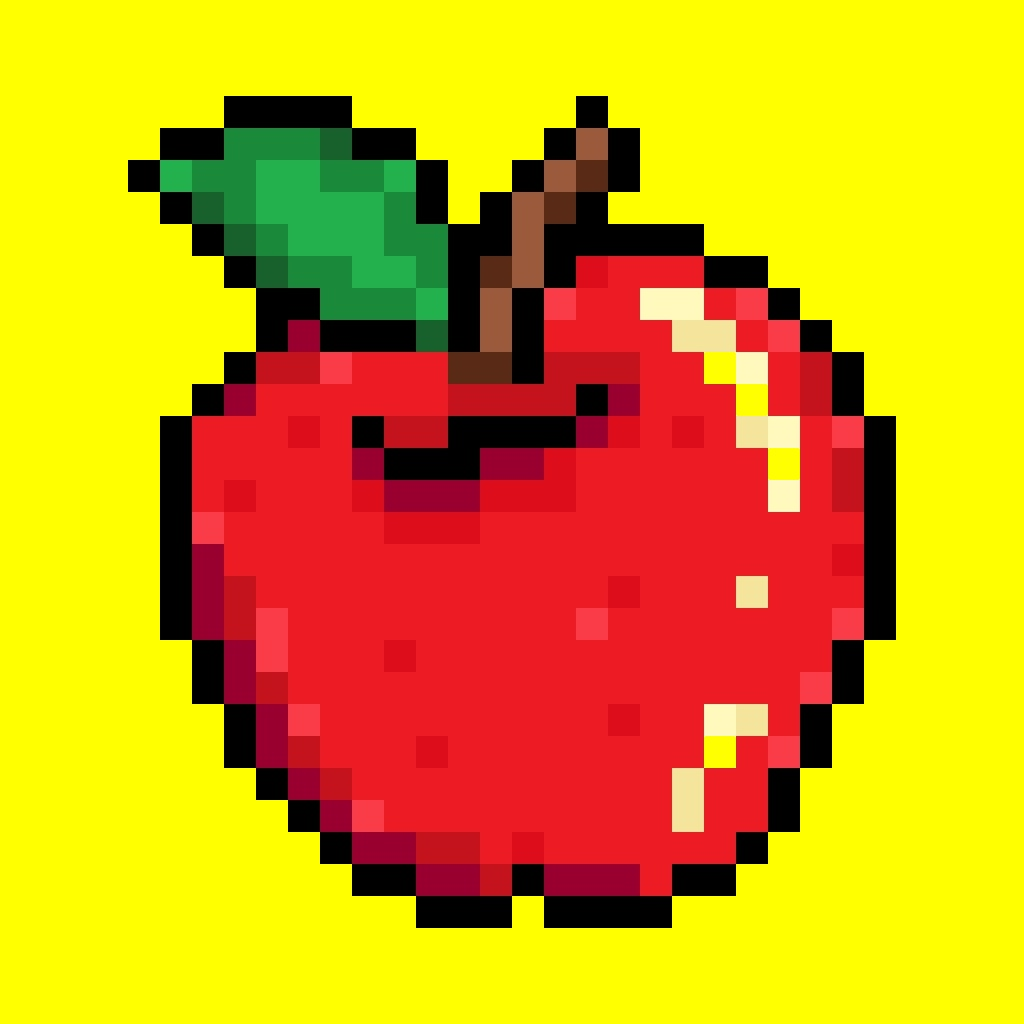
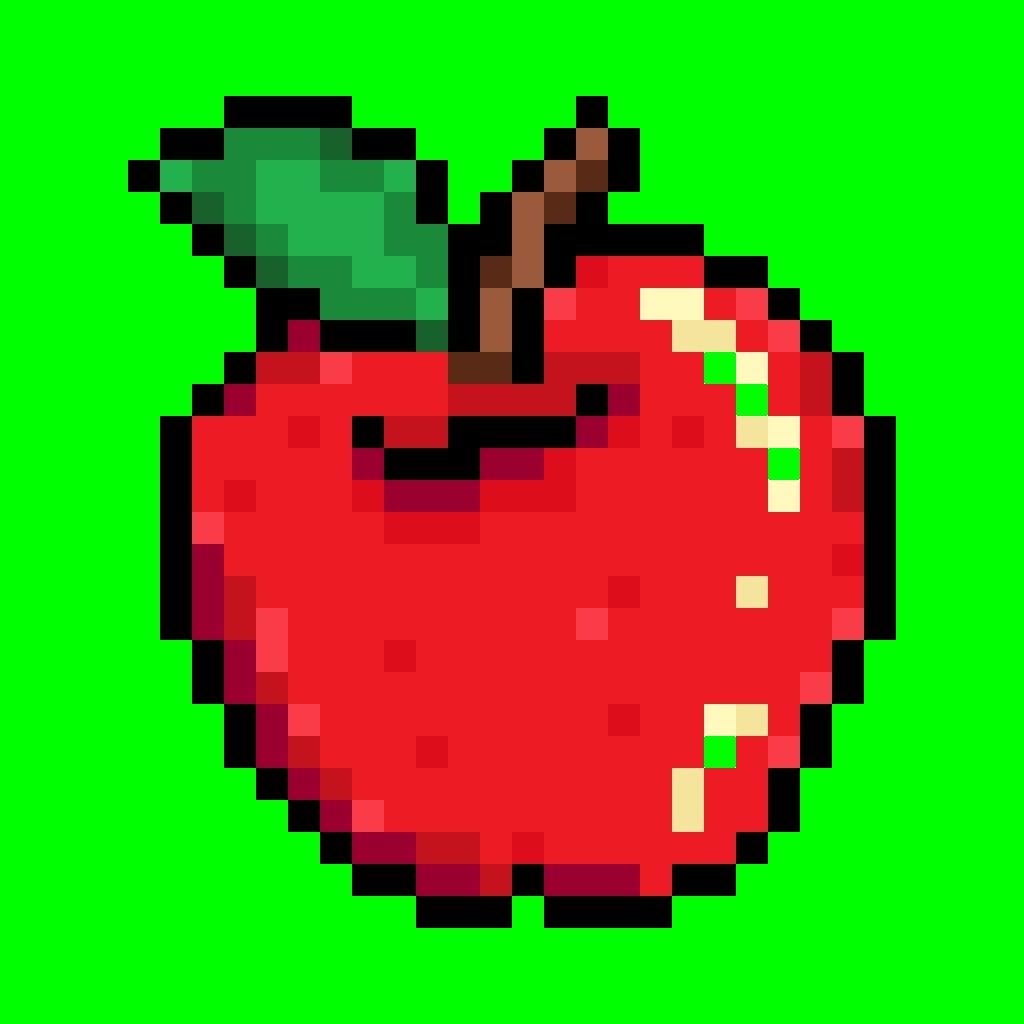
third updated

diff --git a/py_practics/Week2/replace_white_bg.py b/py_practics/Week2/replace_white_bg.py
@@ -1,58 +1,22 @@
 # #Problem: Replace the white background of an image with a Yellow background using OpenCV.
-# #========================================================================================
 
-# #Solution:
 import cv2
 import numpy as np
 
-# Read the image
 img = cv2.imread("apple.jpg")
-
-# Get the dimensions of the image
 height, width, channels = img.shape
-
-# set the white tolerance
 white_tolerance = 230
-
-# Copy the image
 img_yellow = img.copy()
 
-# Loop through each pixel in the image
 for i in range(height):
     for j in range(width):
-        # Get the RGB values of the pixel
         b, g, r = img[i, j]
         
-        # Check if the pixel is white
         if r > white_tolerance and g > white_tolerance and b > white_tolerance:
-            # Set the pixel value to yellow
-            img_yellow[i, j] = [0, 255, 255]
+            img_yellow[i, j] = [0, 255, 0]
         
-# Store the image with the yellow background
 cv2.imwrite("apple_yellow.jpg", img_yellow)
 
-# Display the image with the yellow background
 cv2.imshow("Yellow Background Image", img_yellow)
 cv2.waitKey(0)
 
-# import cv2
-# import numpy as np
-
-# img = cv2.imread("apple.jpg")
-# height, width, channels = img.shape
-
-# white_tolerance = 230
-
-# img_yellow = img.copy()
-
-# for i in range(height):
-#     for j in range(width):
-#         b, g, r = img[i, j]
-
-
-# if r > white_tolerance and g > white_tolerance and b > white_tolerance:
-#     img_yellow[i,j] = [0, 255, 255]
-
-#     cv2.imwrite("./Week2/apple_yellow.jpg", img_yellow)
-#     cv2.imshow("show yellow background", img_yellow)
-#     cv2.waitKey(0)

diff --git a/py_practics/Week2/24bit_to_8bit.py b/py_practics/Week2/24bit_to_8bit.py
@@ -1,35 +1,24 @@
 # Problem: Convert an image from color (RGB) to grayscale using OpenCV.
-#=========================================================================
-# In this problem, we'll convert an image from color (RGB) / 24-bit to grayscale / 8-bit using OpenCV.
 #Solution:
 import cv2
 import numpy as np
 
-# Read the image
 img = cv2.imread("apple.jpg") 
 
-# Get the dimensions of the image
 height, width, channels = img.shape
 
-# Create a new image with the same dimensions as the original image
 img_gray = np.zeros((height, width), np.uint8) 
 
-# Loop through each pixel in the image
 for i in range(height):
     for j in range(width):
-        # Get the RGB values of the pixel
         b, g, r = img[i, j]
         
-        # Convert the RGB values to grayscale using the formula: Y = 0.299R + 0.587G + 0.114B
         gray = 0.299 * r + 0.587 * g + 0.114 * b
         
-        # Set the pixel value in the new image
         img_gray[i, j] = gray
         
-# Store the grayscale image
 cv2.imwrite("./Week_02/apple_gray.jpg", img_gray)
 
-# Display the grayscale image
 cv2.imshow("Grayscale Image", img_gray)
 cv2.waitKey(0)
 cv2.destroyAllWindows()

diff --git a/py_practics/Week2/24bit_to_binary.py b/py_practics/Week2/24bit_to_binary.py
@@ -1,23 +1,17 @@
 #Problem: Convert an image from color (RGB) / 24-bit to binary / 1-bit using OpenCV.
-#===========================================================================
 
 #Solution:
 import cv2
 import numpy as np
 
-# Read the image
 img = cv2.imread("apple.jpg")
 
-# Get the dimensions of the image
 height, width, channels = img.shape
 
-# Create a new image with the same dimensions as the original image
 img_bw = np.zeros((height, width), np.uint8)
 
-# Loop through each pixel in the image
 for i in range(height):
     for j in range(width):
-        # Get the RGB values of the pixel
         b, g, r = img[i, j]
         
         # Convert the RGB values to binary using the formula: Y = 0.299R + 0.587G + 0.114B
